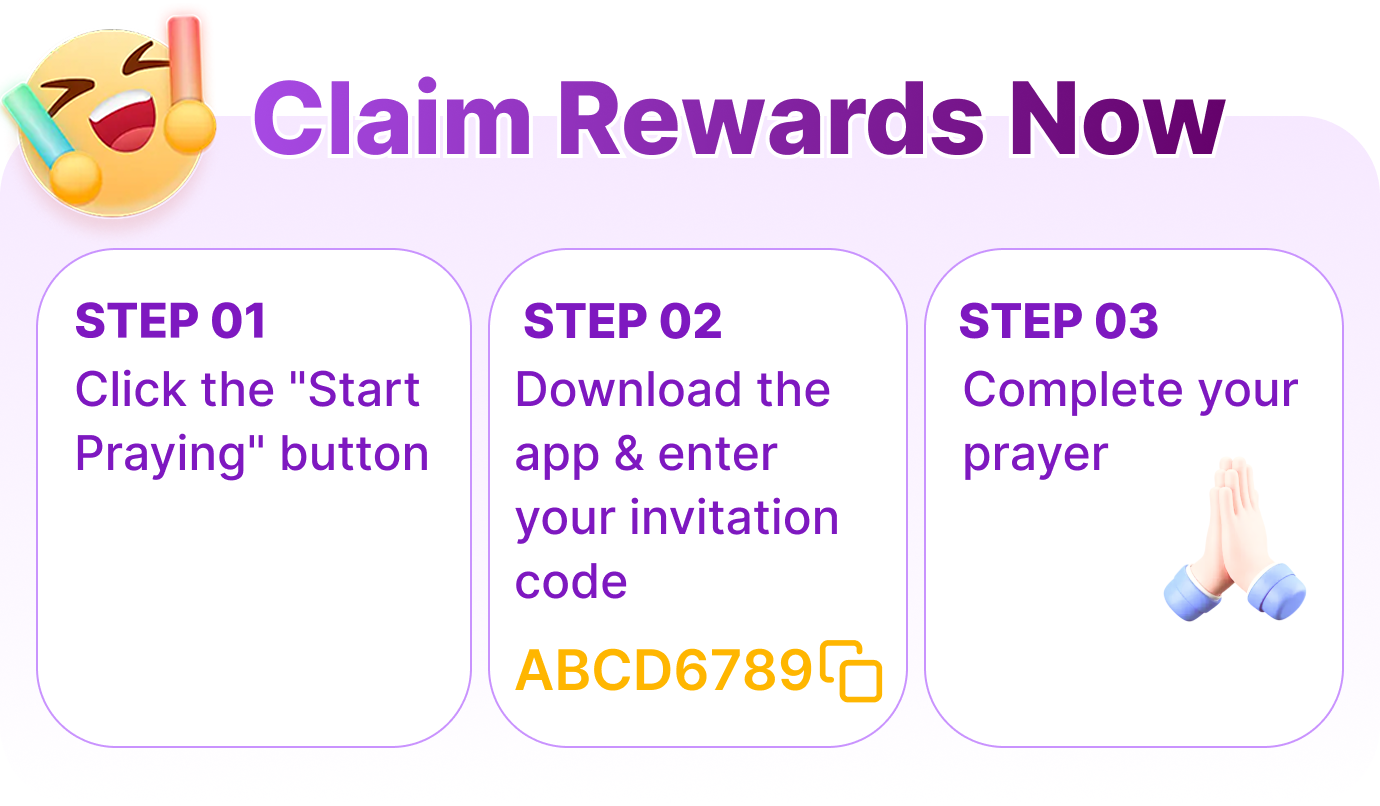
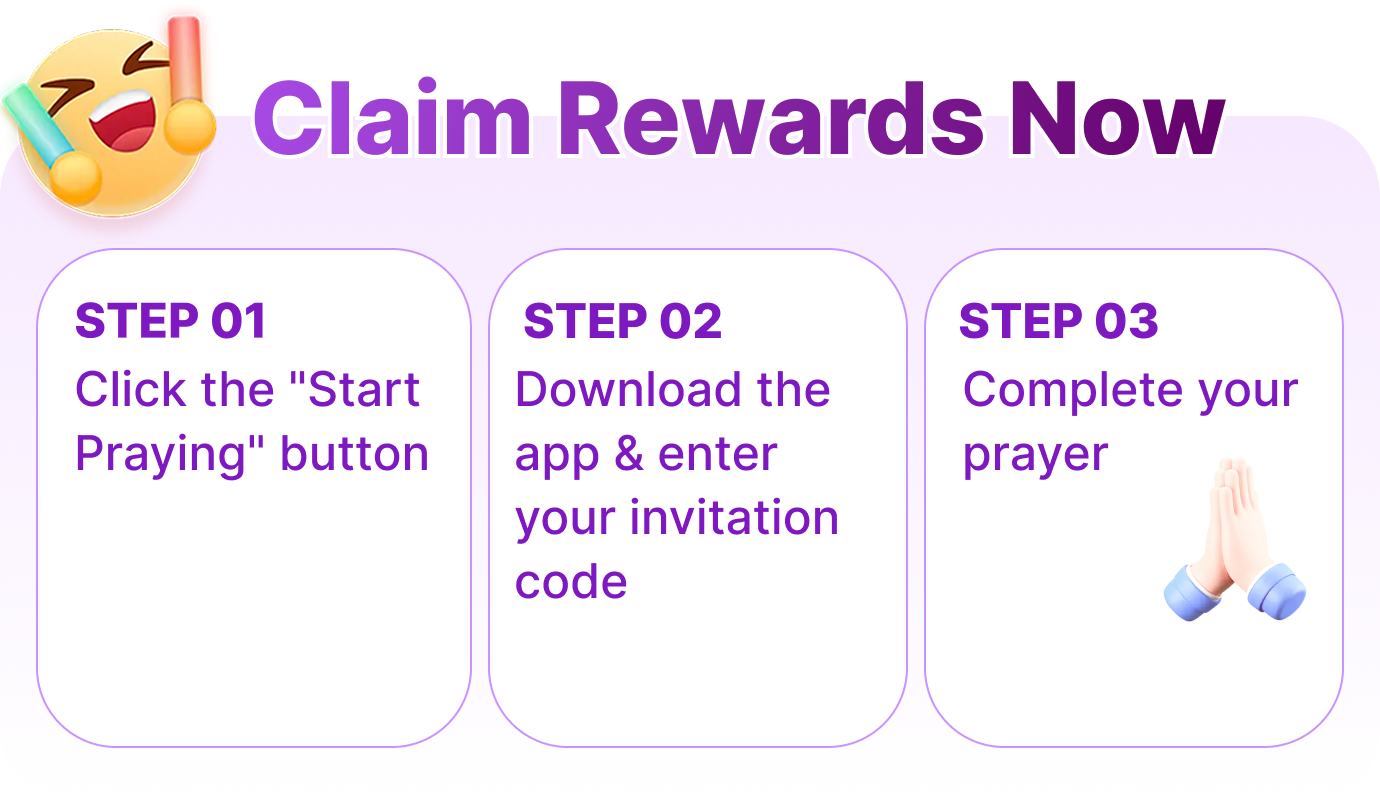
feat: Add invite code display and handling on invite page

Changed region(s): [[0.3739, 0.7754, 0.6543, 0.8685]]

diff --git a/app/invite/page.tsx b/app/invite/page.tsx
@@ -1,17 +1,32 @@
 "use client";
 
 import { useEffect, useState } from "react";
+import { useSearchParams } from "next/navigation";
 
 export default function InvitePage() {
   const [hasVisited, setHasVisited] = useState(false);
+  const [inviteCode, setInviteCode] = useState<string | null>(null);
+  const searchParams = useSearchParams();
 
   useEffect(() => {
+    const code = searchParams.get("inviteCode");
+    setInviteCode(code);
+
     const visited = localStorage.getItem("hasVisitedInvitePage") === "true";
     setHasVisited(visited);
     if (!visited) {
       localStorage.setItem("hasVisitedInvitePage", "true");
     }
-  }, []);
+  }, [searchParams]);
+
+  const handleStartPraying = () => {
+    // if (inviteCode) {
+    //   window.location.href = `https://www.google.com?code=${inviteCode}`;
+    // } else {
+    //   window.location.href = "faithtime://";
+    // }
+    window.location.href = "faithtime://";
+  };
 
   return (
     <div
@@ -29,17 +44,25 @@ export default function InvitePage() {
             src="/invite/start-praying-button.png"
             alt="how to pray"
             className="w-full absolute bottom-0 animate-pulse-scale"
+            onClick={handleStartPraying}
           />
         </div>
-        <img
-          src={
-            hasVisited
-              ? "/invite/claim-rewards-old.png"
-              : "/invite/claim-rewards.png"
-          }
-          alt="claim rewards"
-          className="w-full"
-        />
+        <div className="relative w-full">
+          <img
+            src={
+              hasVisited
+                ? "/invite/claim-rewards-old.png"
+                : "/invite/claim-rewards.png"
+            }
+            alt="claim rewards"
+            className="w-full"
+          />
+          {inviteCode && (
+            <div className="absolute bottom-7 left-1/2 transform -translate-x-1/2 text-[#FFB600] font-bold text-[18px]">
+              {inviteCode}
+            </div>
+          )}
+        </div>
         <img
           src="/invite/how-to-pray.png"
           alt="how to pray"
